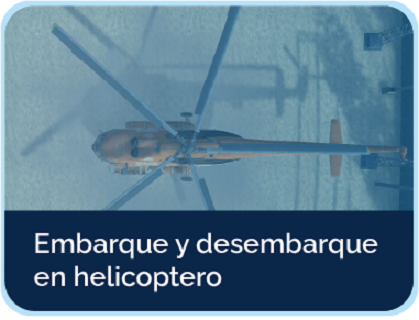
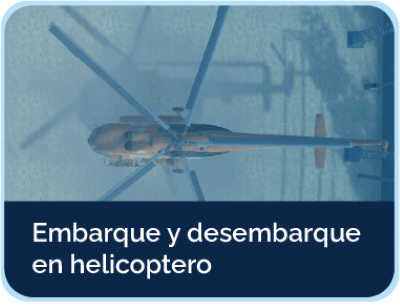
Finalizado Home

diff --git a/src/launcher/VistaHomeJP.java b/src/launcher/VistaHomeJP.java
@@ -27,6 +27,7 @@ public class VistaHomeJP extends javax.swing.JPanel {
     // <editor-fold defaultstate="collapsed" desc="Generated Code">//GEN-BEGIN:initComponents
     private void initComponents() {
 
+        cuerpoHome = new javax.swing.JPanel();
         RescateBtn1 = new javax.swing.JButton();
         RescateBtn = new javax.swing.JButton();
         TipologíaBtn = new javax.swing.JButton();
@@ -38,7 +39,12 @@ public class VistaHomeJP extends javax.swing.JPanel {
         setToolTipText("");
         setPreferredSize(new java.awt.Dimension(1540, 850));
         setVerifyInputWhenFocusTarget(false);
-        setLayout(new org.netbeans.lib.awtextra.AbsoluteLayout());
+
+        cuerpoHome.setBackground(new java.awt.Color(10, 38, 72));
+        cuerpoHome.setToolTipText("");
+        cuerpoHome.setPreferredSize(new java.awt.Dimension(1540, 850));
+        cuerpoHome.setVerifyInputWhenFocusTarget(false);
+        cuerpoHome.setLayout(new org.netbeans.lib.awtextra.AbsoluteLayout());
 
         RescateBtn1.setBackground(new java.awt.Color(0, 0, 0));
         RescateBtn1.setIcon(new javax.swing.ImageIcon(getClass().getResource("/imagenes/Embarque.png"))); // NOI18N
@@ -50,7 +56,7 @@ public class VistaHomeJP extends javax.swing.JPanel {
                 RescateBtn1MouseExited(evt);
             }
         });
-        add(RescateBtn1, new org.netbeans.lib.awtextra.AbsoluteConstraints(580, 40, 400, 310));
+        cuerpoHome.add(RescateBtn1, new org.netbeans.lib.awtextra.AbsoluteConstraints(580, 40, 400, 310));
 
         RescateBtn.setBackground(new java.awt.Color(0, 0, 0));
         RescateBtn.setIcon(new javax.swing.ImageIcon(getClass().getResource("/imagenes/Rescate.png"))); // NOI18N
@@ -62,14 +68,14 @@ public class VistaHomeJP extends javax.swing.JPanel {
                 RescateBtnMouseExited(evt);
             }
         });
-        add(RescateBtn, new org.netbeans.lib.awtextra.AbsoluteConstraints(180, 40, 400, 310));
+        cuerpoHome.add(RescateBtn, new org.netbeans.lib.awtextra.AbsoluteConstraints(180, 40, 400, 310));
 
         TipologíaBtn.setBackground(new java.awt.Color(182, 225, 255));
         TipologíaBtn.setIcon(new javax.swing.ImageIcon(getClass().getResource("/imagenes/Tipología.png"))); // NOI18N
         TipologíaBtn.setContentAreaFilled(false);
         TipologíaBtn.setPressedIcon(new javax.swing.ImageIcon(getClass().getResource("/imagenes/Tipología.png"))); // NOI18N
         TipologíaBtn.setRolloverIcon(new javax.swing.ImageIcon(getClass().getResource("/imagenes/Tipologia2.png"))); // NOI18N
-        add(TipologíaBtn, new org.netbeans.lib.awtextra.AbsoluteConstraints(980, 40, 400, 310));
+        cuerpoHome.add(TipologíaBtn, new org.netbeans.lib.awtextra.AbsoluteConstraints(980, 40, 400, 310));
 
         ProtocolBtn.setBackground(new java.awt.Color(182, 225, 255));
         ProtocolBtn.setIcon(new javax.swing.ImageIcon(getClass().getResource("/imagenes/Protocolo.png"))); // NOI18N
@@ -81,7 +87,7 @@ public class VistaHomeJP extends javax.swing.JPanel {
                 ProtocolBtnActionPerformed(evt);
             }
         });
-        add(ProtocolBtn, new org.netbeans.lib.awtextra.AbsoluteConstraints(170, 400, 410, 320));
+        cuerpoHome.add(ProtocolBtn, new org.netbeans.lib.awtextra.AbsoluteConstraints(170, 400, 410, 320));
 
         ManiobrasBtn.setBackground(new java.awt.Color(182, 225, 255));
         ManiobrasBtn.setIcon(new javax.swing.ImageIcon(getClass().getResource("/imagenes/Maniobras.png"))); // NOI18N
@@ -93,7 +99,7 @@ public class VistaHomeJP extends javax.swing.JPanel {
                 ManiobrasBtnActionPerformed(evt);
             }
         });
-        add(ManiobrasBtn, new org.netbeans.lib.awtextra.AbsoluteConstraints(580, 400, 400, 320));
+        cuerpoHome.add(ManiobrasBtn, new org.netbeans.lib.awtextra.AbsoluteConstraints(580, 400, 400, 320));
 
         SeñalizaciónBtn.setBackground(new java.awt.Color(182, 225, 255));
         SeñalizaciónBtn.setIcon(new javax.swing.ImageIcon(getClass().getResource("/imagenes/Señalizaciónj.png"))); // NOI18N
@@ -105,7 +111,18 @@ public class VistaHomeJP extends javax.swing.JPanel {
                 SeñalizaciónBtnActionPerformed(evt);
             }
         });
-        add(SeñalizaciónBtn, new org.netbeans.lib.awtextra.AbsoluteConstraints(970, 410, 430, 310));
+        cuerpoHome.add(SeñalizaciónBtn, new org.netbeans.lib.awtextra.AbsoluteConstraints(970, 410, 430, 310));
+
+        javax.swing.GroupLayout layout = new javax.swing.GroupLayout(this);
+        this.setLayout(layout);
+        layout.setHorizontalGroup(
+            layout.createParallelGroup(javax.swing.GroupLayout.Alignment.LEADING)
+            .addComponent(cuerpoHome, javax.swing.GroupLayout.PREFERRED_SIZE, javax.swing.GroupLayout.DEFAULT_SIZE, javax.swing.GroupLayout.PREFERRED_SIZE)
+        );
+        layout.setVerticalGroup(
+            layout.createParallelGroup(javax.swing.GroupLayout.Alignment.LEADING)
+            .addComponent(cuerpoHome, javax.swing.GroupLayout.PREFERRED_SIZE, javax.swing.GroupLayout.DEFAULT_SIZE, javax.swing.GroupLayout.PREFERRED_SIZE)
+        );
     }// </editor-fold>//GEN-END:initComponents
 
     private void ProtocolBtnActionPerformed(java.awt.event.ActionEvent evt) {//GEN-FIRST:event_ProtocolBtnActionPerformed
@@ -135,5 +152,6 @@ public class VistaHomeJP extends javax.swing.JPanel {
     private javax.swing.JButton RescateBtn1;
     private javax.swing.JButton SeñalizaciónBtn;
     private javax.swing.JButton TipologíaBtn;
+    private javax.swing.JPanel cuerpoHome;
     // End of variables declaration//GEN-END:variables
 }

diff --git a/src/launcher/principal.java b/src/launcher/principal.java
@@ -48,7 +48,6 @@ public class principal extends javax.swing.JFrame {
         launcherBtn13 = new javax.swing.JButton();
         FondoJL = new javax.swing.JLabel();
         cuerpoGame = new javax.swing.JPanel();
-        jLabel1 = new javax.swing.JLabel();
 
         setDefaultCloseOperation(javax.swing.WindowConstants.EXIT_ON_CLOSE);
         setBackground(new java.awt.Color(14, 77, 144));
@@ -232,10 +231,6 @@ public class principal extends javax.swing.JFrame {
 
         FondoP.add(cuerpoGame, new org.netbeans.lib.awtextra.AbsoluteConstraints(370, 210, 940, 590));
 
-        jLabel1.setIcon(new javax.swing.ImageIcon(getClass().getResource("/imagenes/fondoImagen.png"))); // NOI18N
-        jLabel1.setText("jLabel1");
-        FondoP.add(jLabel1, new org.netbeans.lib.awtextra.AbsoluteConstraints(530, 420, -1, -1));
-
         javax.swing.GroupLayout layout = new javax.swing.GroupLayout(getContentPane());
         getContentPane().setLayout(layout);
         layout.setHorizontalGroup(
@@ -313,7 +308,6 @@ public class principal extends javax.swing.JFrame {
     public static javax.swing.JPanel FondoP;
     private javax.swing.JPanel cuerpo;
     public static javax.swing.JPanel cuerpoGame;
-    private javax.swing.JLabel jLabel1;
     private javax.swing.JPanel jPanel1;
     private javax.swing.JButton launcherBtn0;
     private javax.swing.JButton launcherBtn1;
